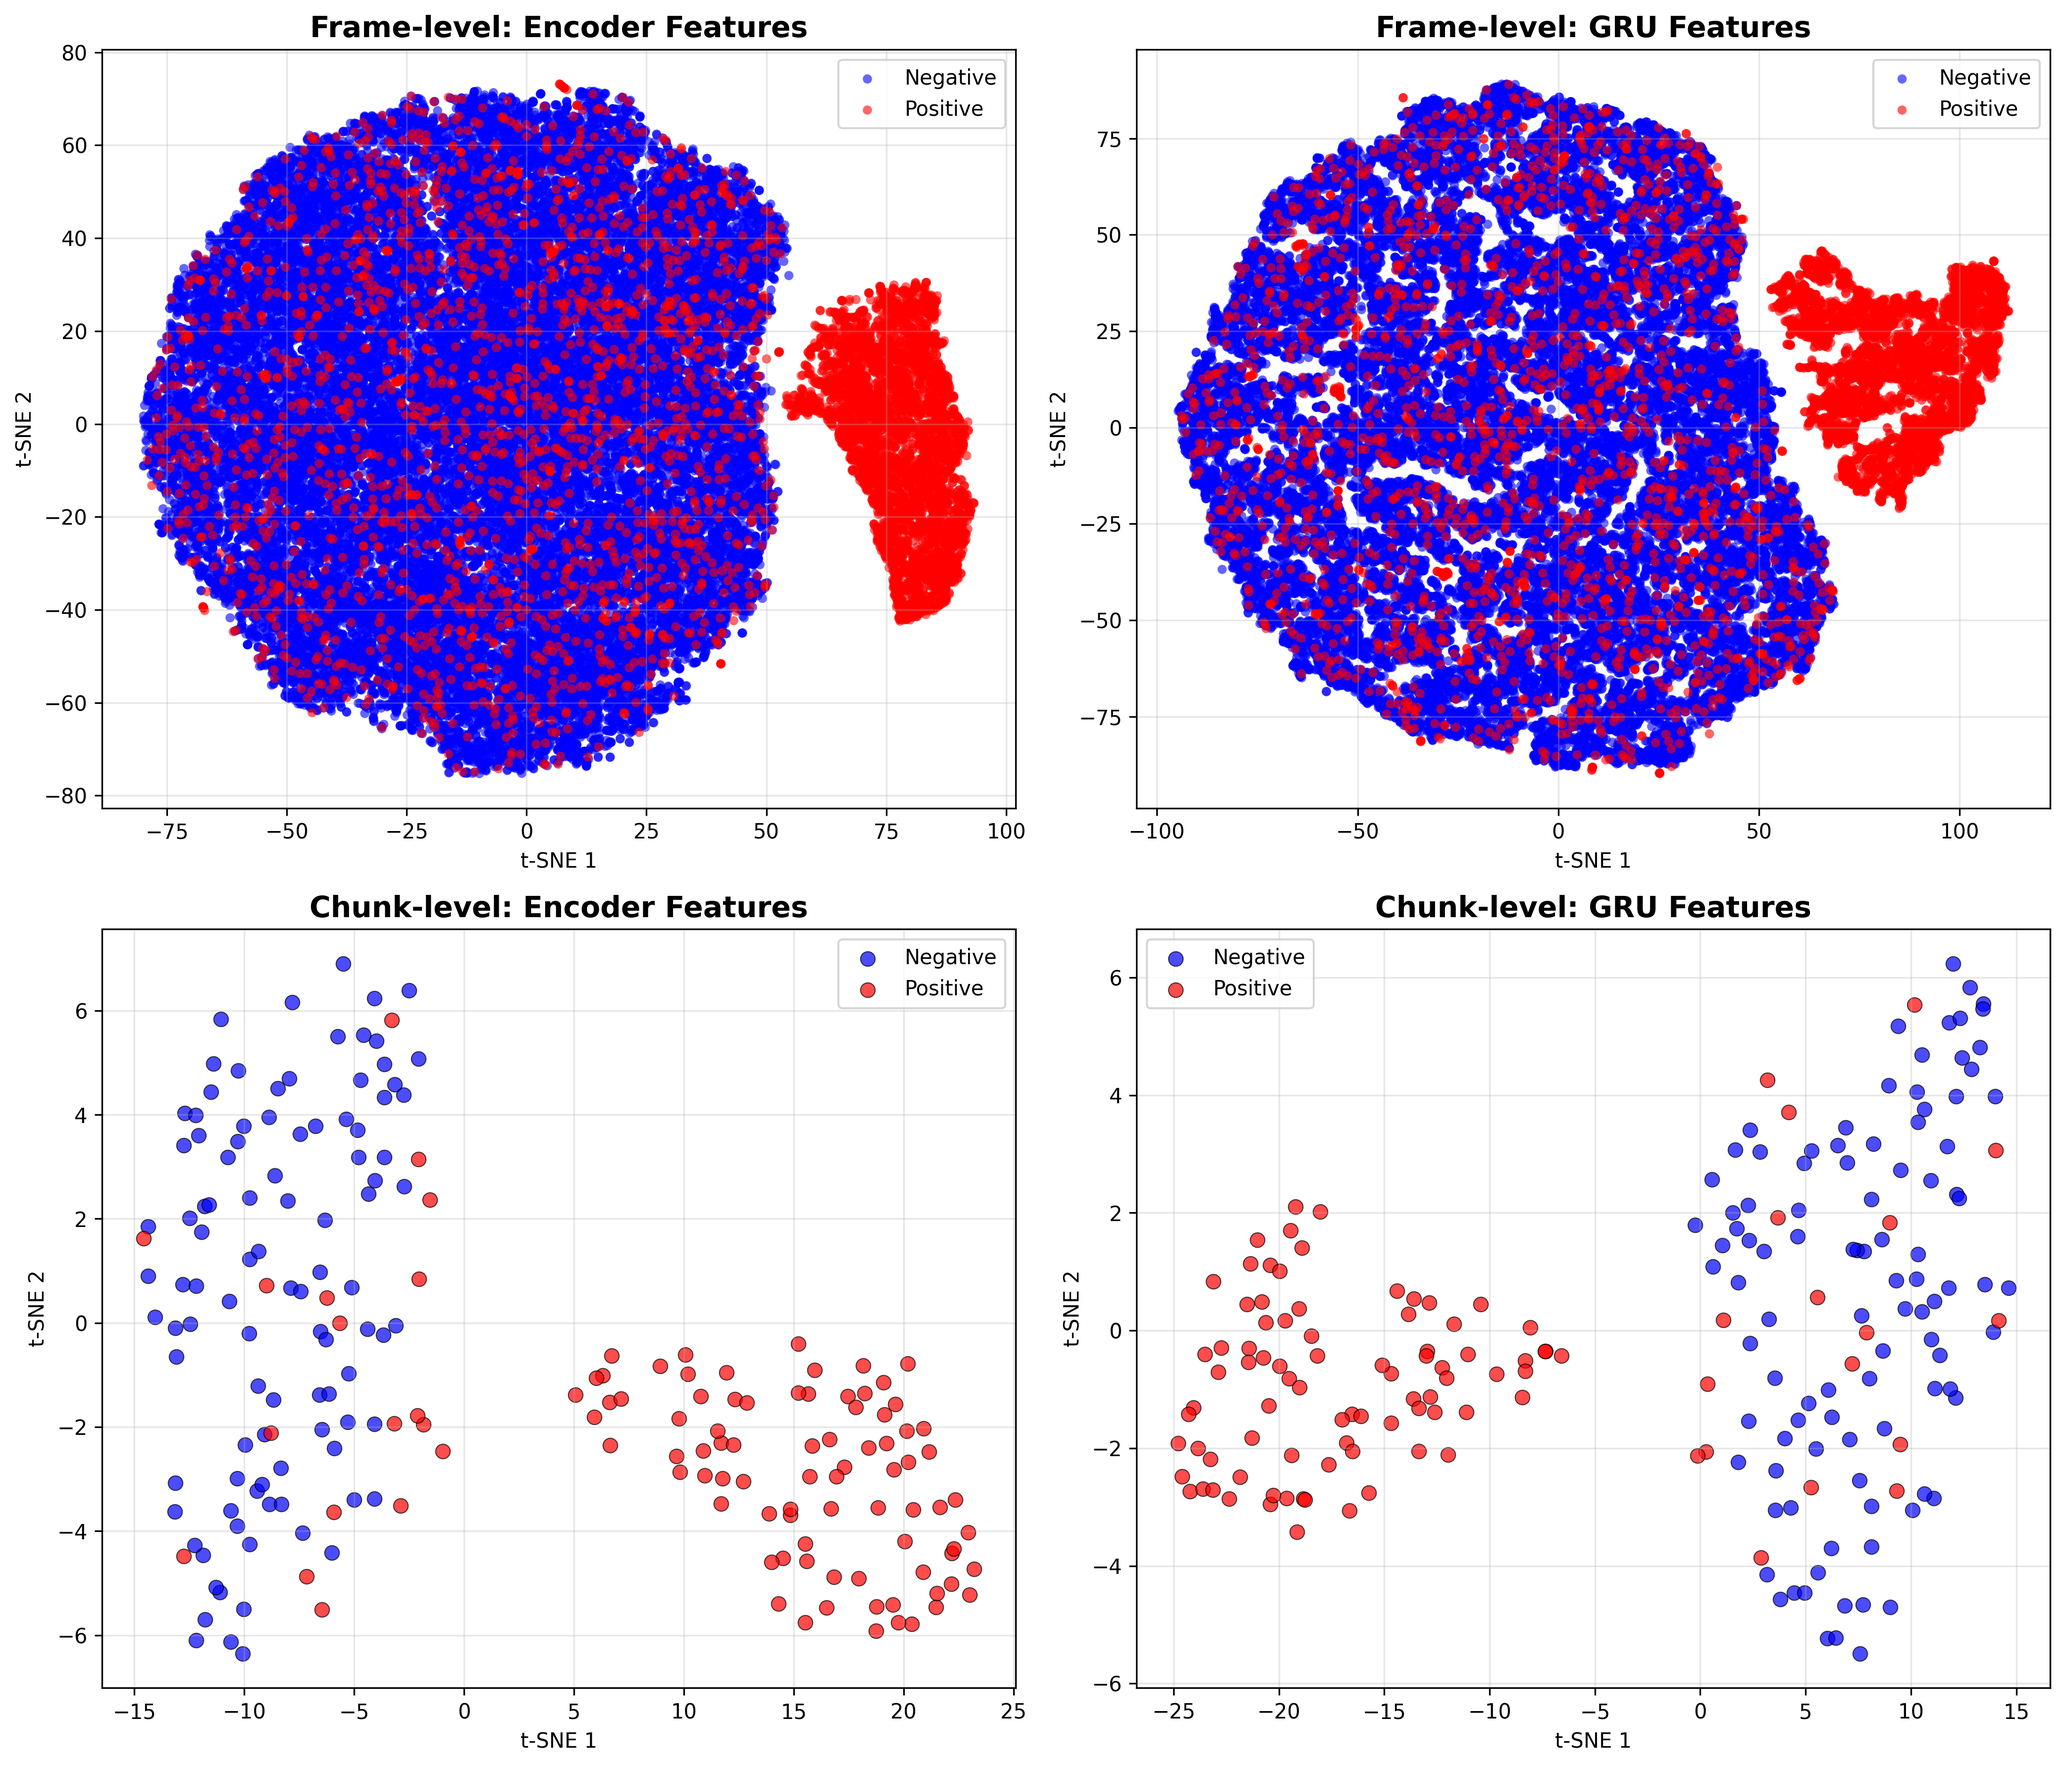
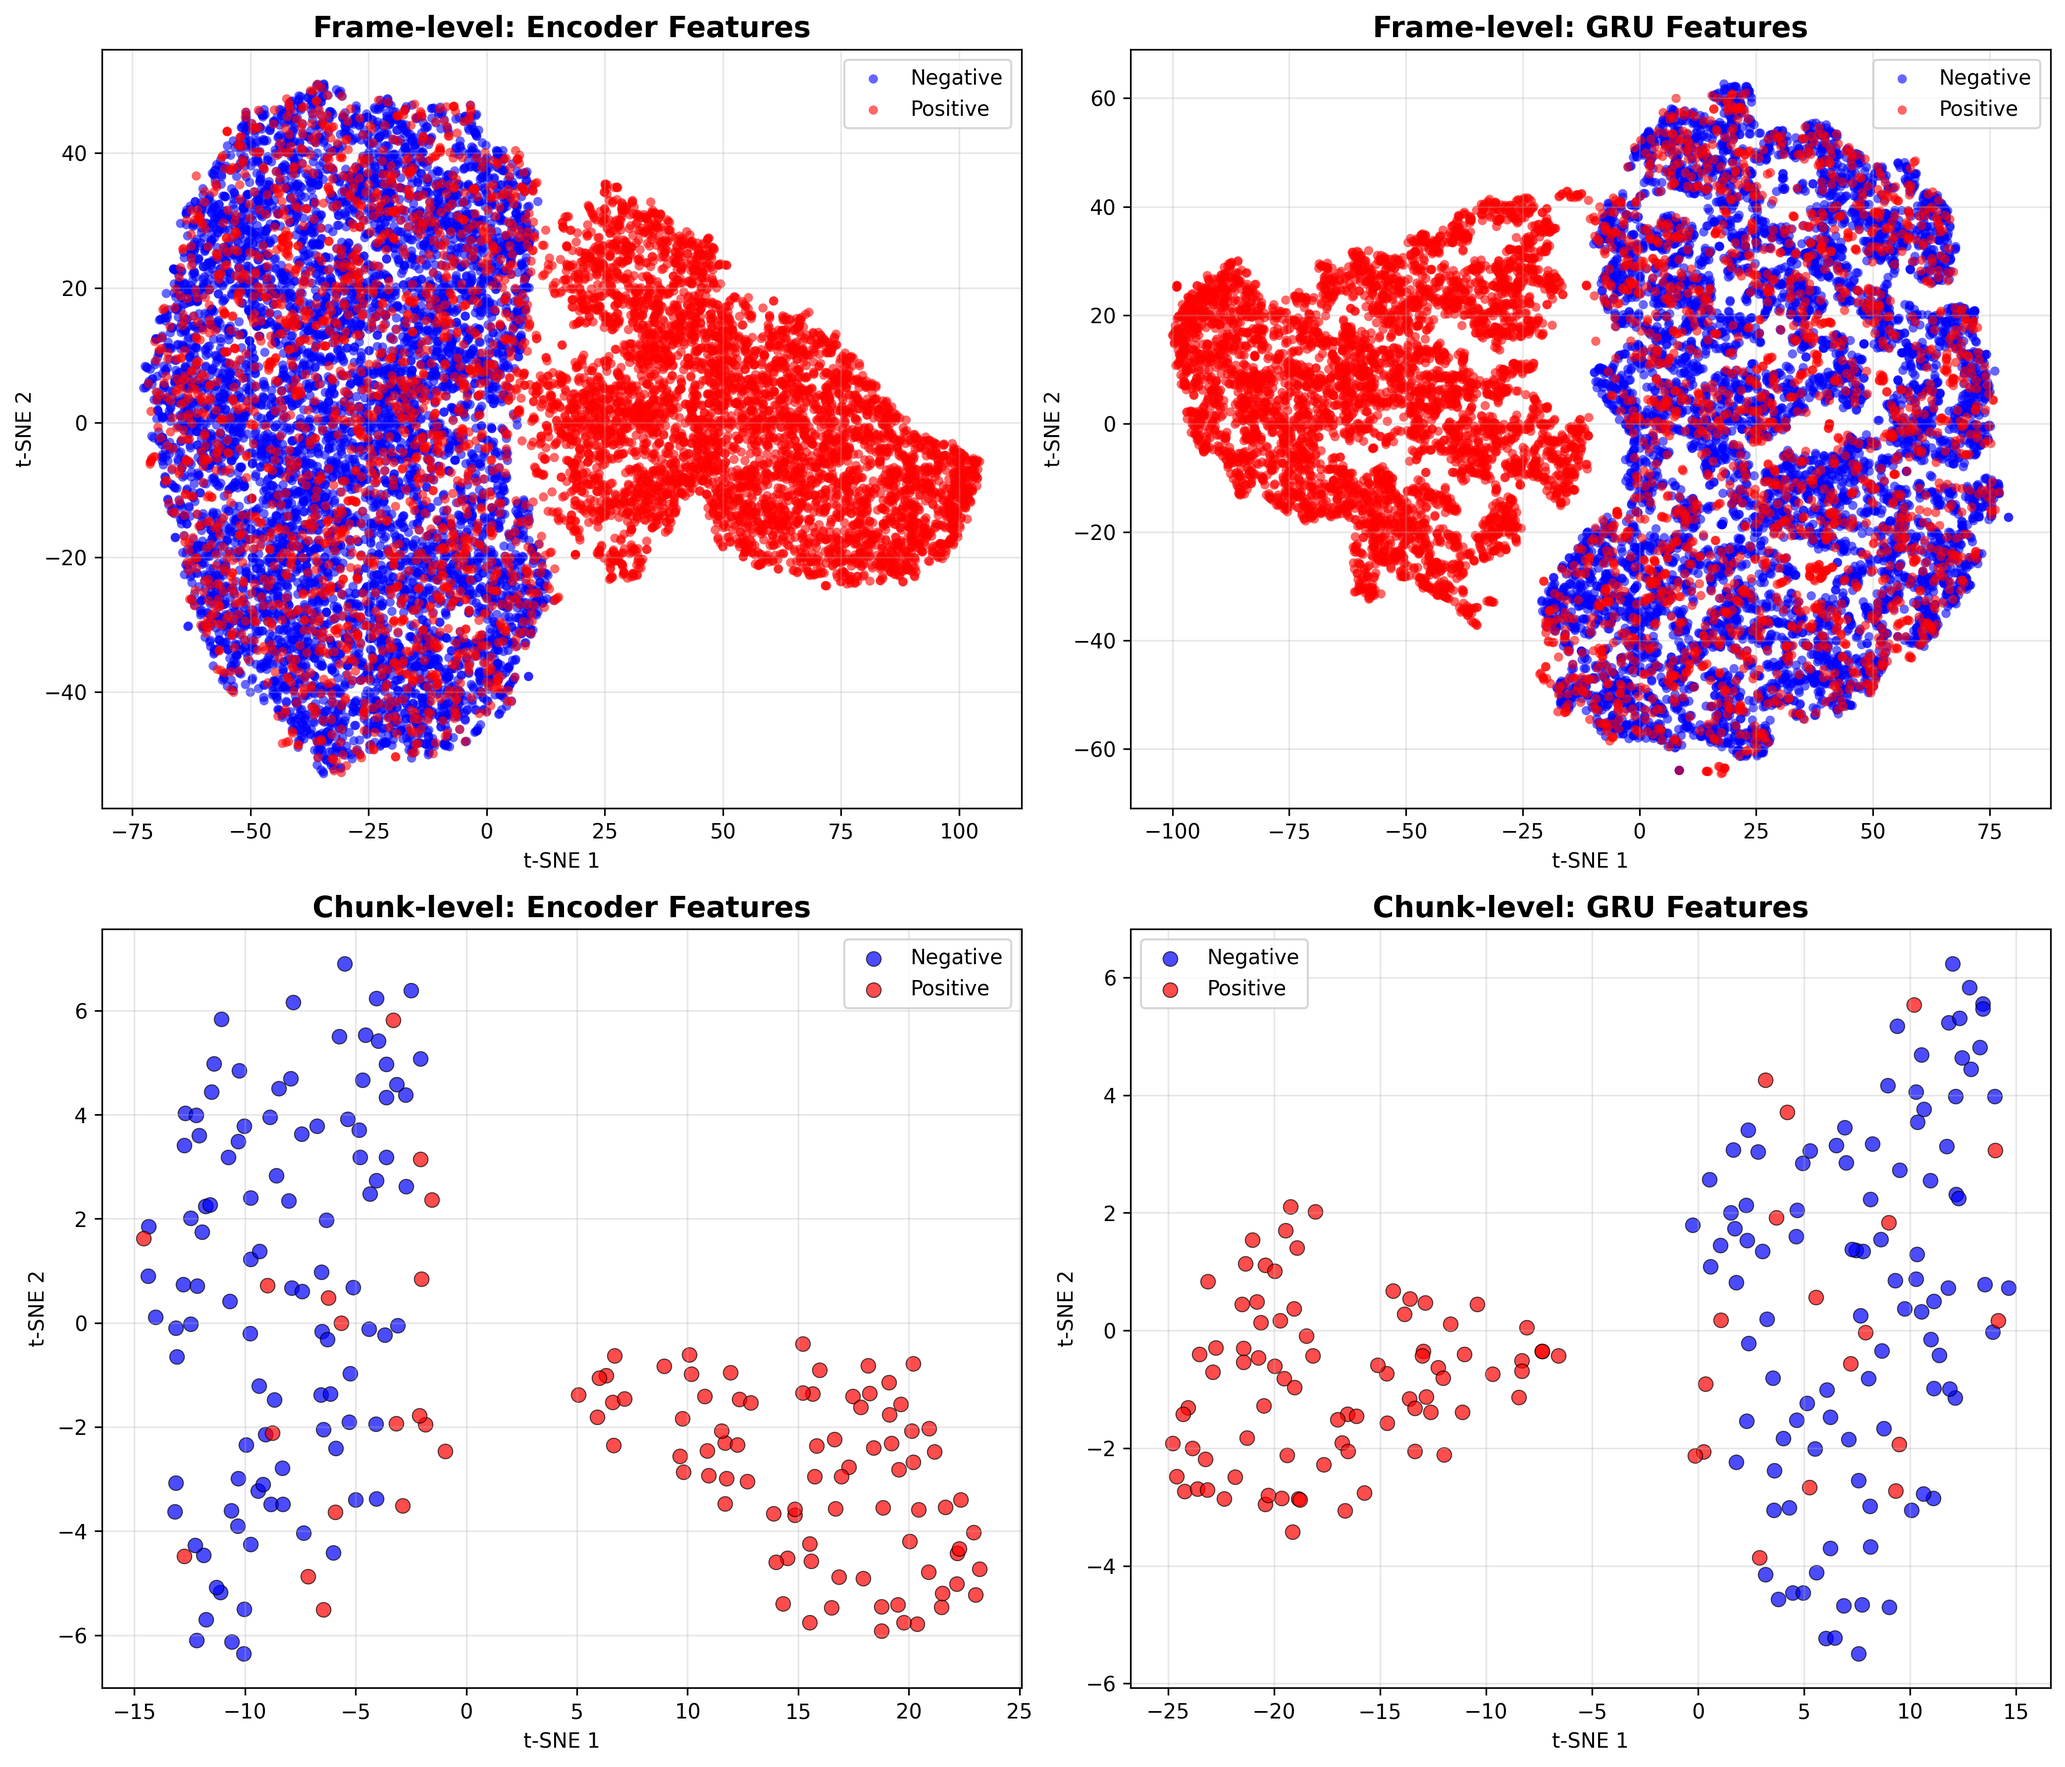
Updated the image

diff --git a/tsne_vis.py b/tsne_vis.py
@@ -112,8 +112,10 @@ def compute_frame_labels(frame_timestamps, dataset):
     
     Returns:
         labels: [B*T] array with 1 for frames containing signal, 0 otherwise
+        distances: [B*T] array with distance from signal (for negative sampling)
     """
     labels = []
+    distances = []
     
     for file_idx, chunk_start_sec, chunk_end_sec, frame_idx, num_frames in frame_timestamps:
         info = dataset.metadata[file_idx]
@@ -134,15 +136,65 @@ def compute_frame_labels(frame_timestamps, dataset):
         # Frame is positive if it has any overlap with signal
         label = 1 if overlap > 0 else 0
         labels.append(label)
+        
+        # Calculate distance from signal (for negative sampling priority)
+        if label == 0:
+            distance = min(abs(frame_start - burst_end), abs(frame_end - burst_start))
+        else:
+            distance = 0.0
+        distances.append(distance)
     
-    return np.array(labels)
+    return np.array(labels), np.array(distances)
+
+
+def balance_frame_samples(features, labels, distances, seed=42):
+    """Balance positive and negative frame samples
+    
+    Args:
+        features: [N, D] tensor
+        labels: [N] array
+        distances: [N] array - distance from signal for each negative frame
+        seed: random seed
+    
+    Returns:
+        balanced_features: [2M, D] tensor where M is number of positive frames
+        balanced_labels: [2M] array
+    """
+    positive_idx = np.where(labels == 1)[0]
+    negative_idx = np.where(labels == 0)[0]
+    
+    num_positive = len(positive_idx)
+    
+    # Sort negative frames by distance (prefer far negatives)
+    negative_distances = distances[negative_idx]
+    sorted_neg_idx = negative_idx[np.argsort(-negative_distances)]  # Descending order
+    
+    # Select top distant negatives, then shuffle
+    # Take top 50% by distance, then random sample from them
+    top_k = min(len(sorted_neg_idx), num_positive * 2)
+    far_negatives = sorted_neg_idx[:top_k]
+    
+    np.random.seed(seed)
+    selected_negative = np.random.choice(far_negatives, size=num_positive, replace=False)
+    
+    # Combine and shuffle
+    selected_idx = np.concatenate([positive_idx, selected_negative])
+    shuffle_order = np.random.permutation(len(selected_idx))
+    selected_idx = selected_idx[shuffle_order]
+    
+    # Index features based on type
+    if torch.is_tensor(features):
+        selected_idx_tensor = torch.from_numpy(selected_idx).long()
+        return features[selected_idx_tensor], labels[selected_idx]
+    else:
+        return features[selected_idx], labels[selected_idx]
 
 
 def compute_tsne(features, labels, perplexity=30):
     """Compute t-SNE embedding
     
     Args:
-        features: [N, D] tensor
+        features: [N, D] tensor or array
         labels: [N] array
         perplexity: t-SNE perplexity parameter
     
@@ -150,8 +202,14 @@ def compute_tsne(features, labels, perplexity=30):
         embedded: [N, 2] array
         labels: [N] array
     """
+    # Convert tensor to numpy if needed
+    if torch.is_tensor(features):
+        features_np = features.numpy()
+    else:
+        features_np = features
+    
     tsne = TSNE(n_components=2, perplexity=perplexity, random_state=42, max_iter=1000)
-    embedded = tsne.fit_transform(features.numpy())
+    embedded = tsne.fit_transform(features_np)
     return embedded, labels
 
 
@@ -205,7 +263,7 @@ def plot_tsne_grid(encoder_chunk, gru_chunk, encoder_frame, gru_frame,
 
 def main():
     # Configuration
-    method = "BN"
+    method = "LN"
     CHECKPOINT_PATH = f"/root/stable_pretraining_cpc_sample/checkpoints/{method}/best.ckpt"
     CONFIG_PATH = "configs/cpc.yaml"
     NUM_POSITIVE = 100
@@ -244,12 +302,25 @@ def main():
     gru_frame = gru_feats.reshape(-1, gru_feats.shape[-1])  # [B*T, 256]
     
     # Compute precise frame-level labels based on signal overlap
-    labels_frame = compute_frame_labels(frame_timestamps, dataset)  # [B*T]
+    labels_frame_all, distances_frame = compute_frame_labels(frame_timestamps, dataset)  # [B*T]
     
     print(f"\nChunk-level shapes: encoder {encoder_chunk.shape}, gru {gru_chunk.shape}")
     print(f"Chunk-level labels: {labels.sum():.0f} positive / {len(labels)} total")
-    print(f"\nFrame-level shapes: encoder {encoder_frame.shape}, gru {gru_frame.shape}")
-    print(f"Frame-level labels: {labels_frame.sum():.0f} positive / {len(labels_frame)} total")
+    print(f"\nFrame-level (before balancing):")
+    print(f"  Shapes: encoder {encoder_frame.shape}, gru {gru_frame.shape}")
+    print(f"  Labels: {labels_frame_all.sum():.0f} positive / {len(labels_frame_all)} total")
+    
+    # Balance frame-level samples
+    encoder_frame_balanced, labels_frame = balance_frame_samples(
+        encoder_frame, labels_frame_all, distances_frame
+    )
+    gru_frame_balanced, _ = balance_frame_samples(
+        gru_frame, labels_frame_all, distances_frame
+    )
+    
+    print(f"\nFrame-level (after balancing):")
+    print(f"  Shapes: encoder {encoder_frame_balanced.shape}, gru {gru_frame_balanced.shape}")
+    print(f"  Labels: {labels_frame.sum():.0f} positive / {len(labels_frame)} total")
     
     # Compute t-SNE embeddings
     print("\nComputing t-SNE for chunk-level features...")
@@ -257,8 +328,8 @@ def main():
     gru_chunk_tsne, _ = compute_tsne(gru_chunk, labels)
     
     print("Computing t-SNE for frame-level features...")
-    encoder_frame_tsne, _ = compute_tsne(encoder_frame, labels_frame, perplexity=50)
-    gru_frame_tsne, _ = compute_tsne(gru_frame, labels_frame, perplexity=50)
+    encoder_frame_tsne, _ = compute_tsne(encoder_frame_balanced, labels_frame, perplexity=50)
+    gru_frame_tsne, _ = compute_tsne(gru_frame_balanced, labels_frame, perplexity=50)
     
     # Plot all results
     plot_tsne_grid(
